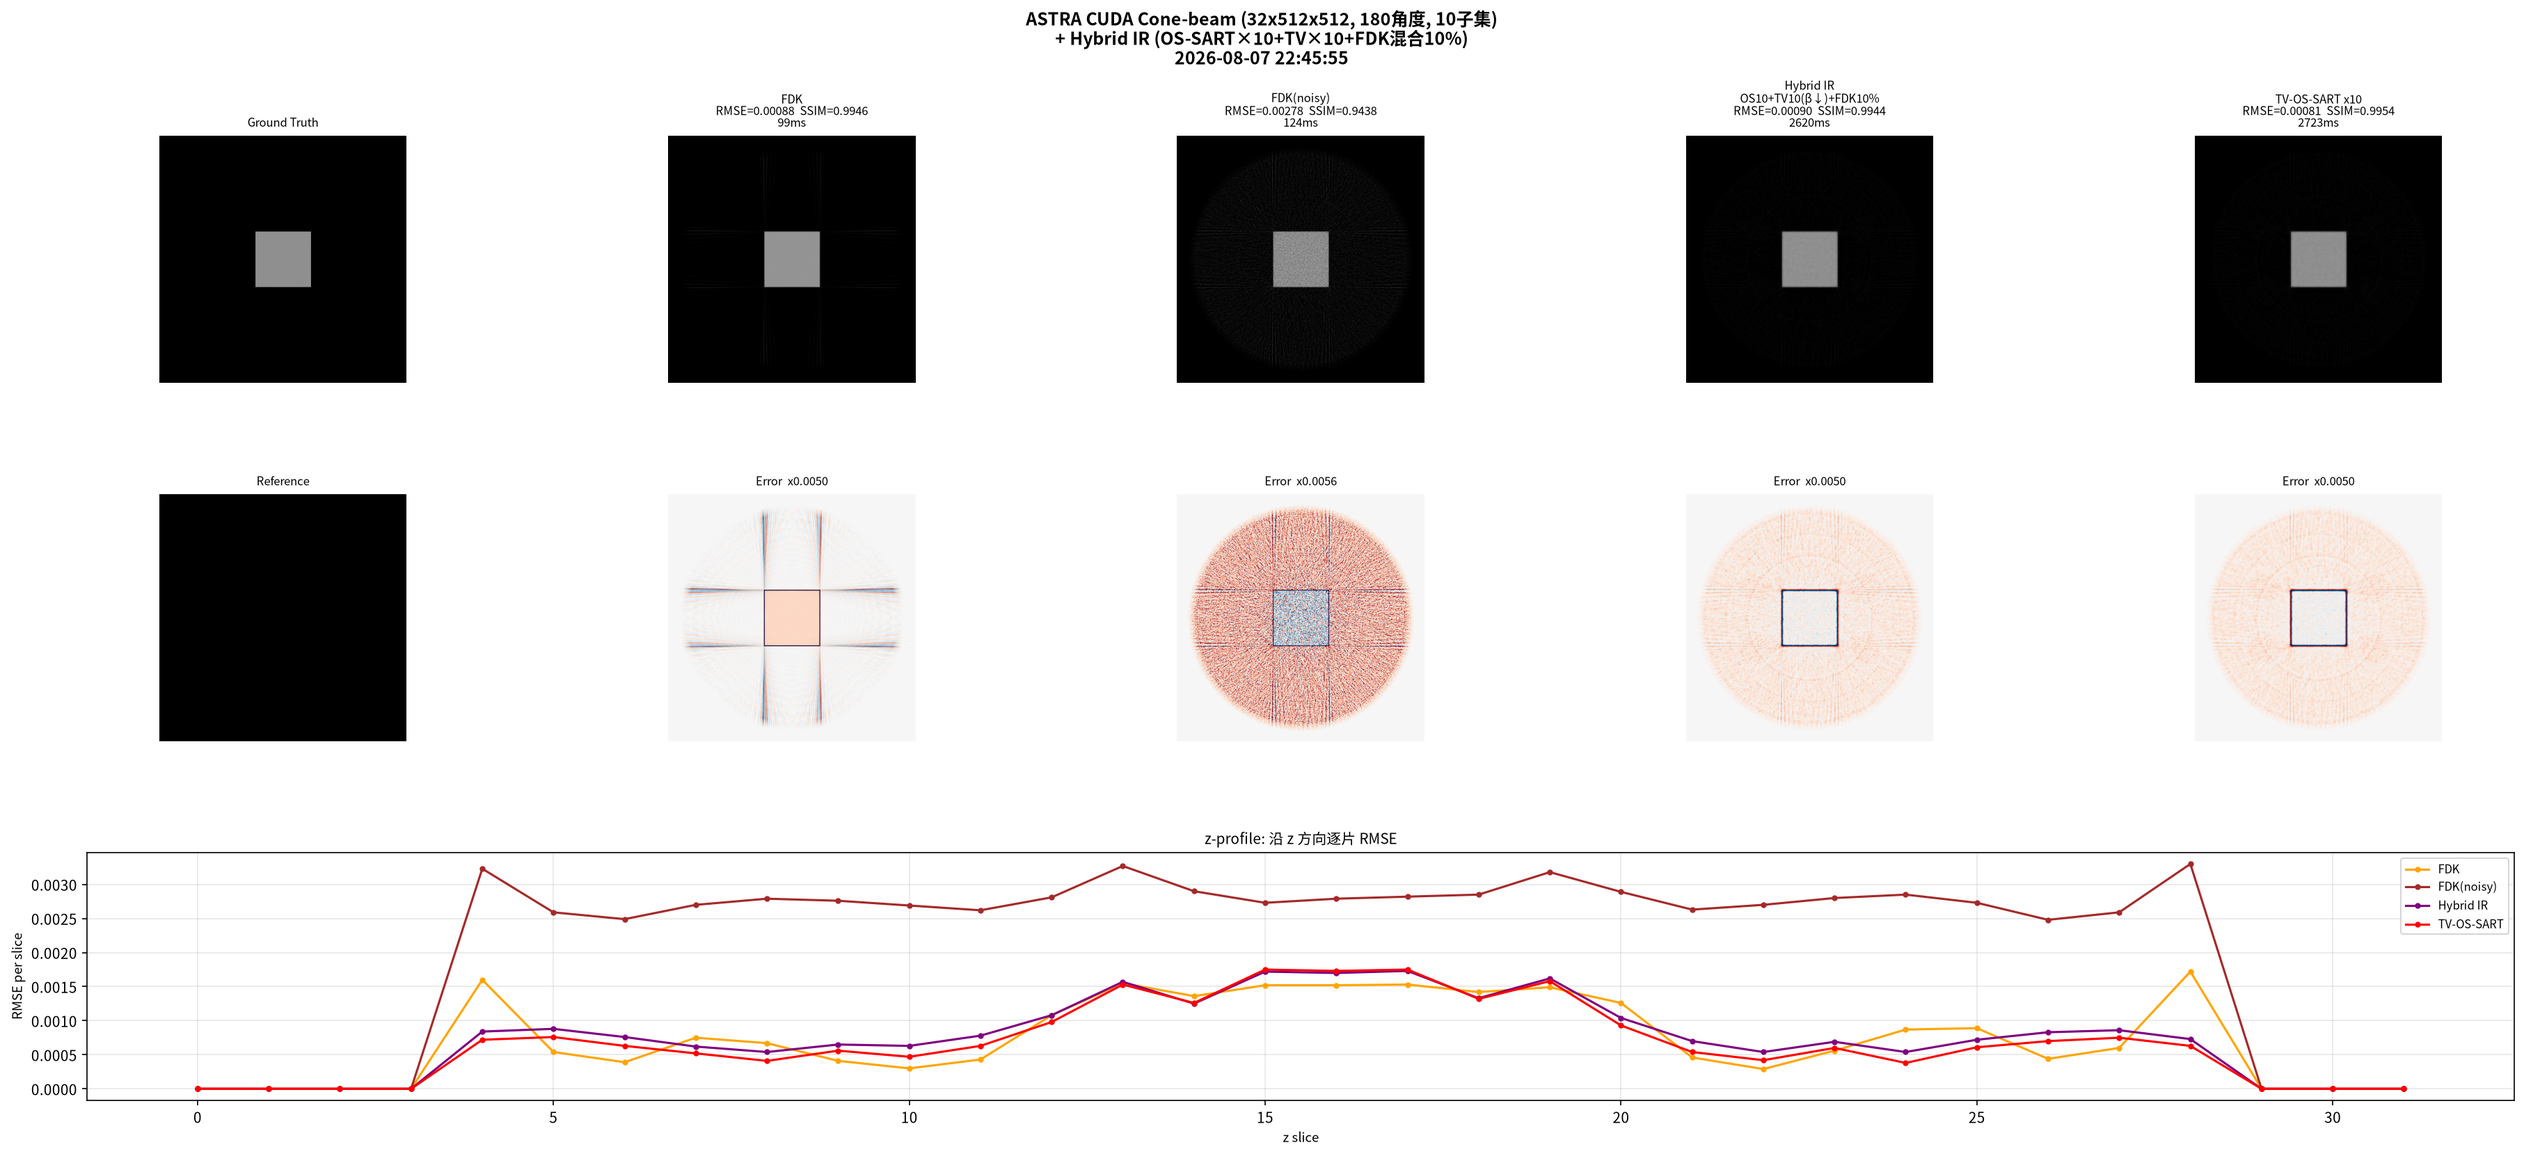
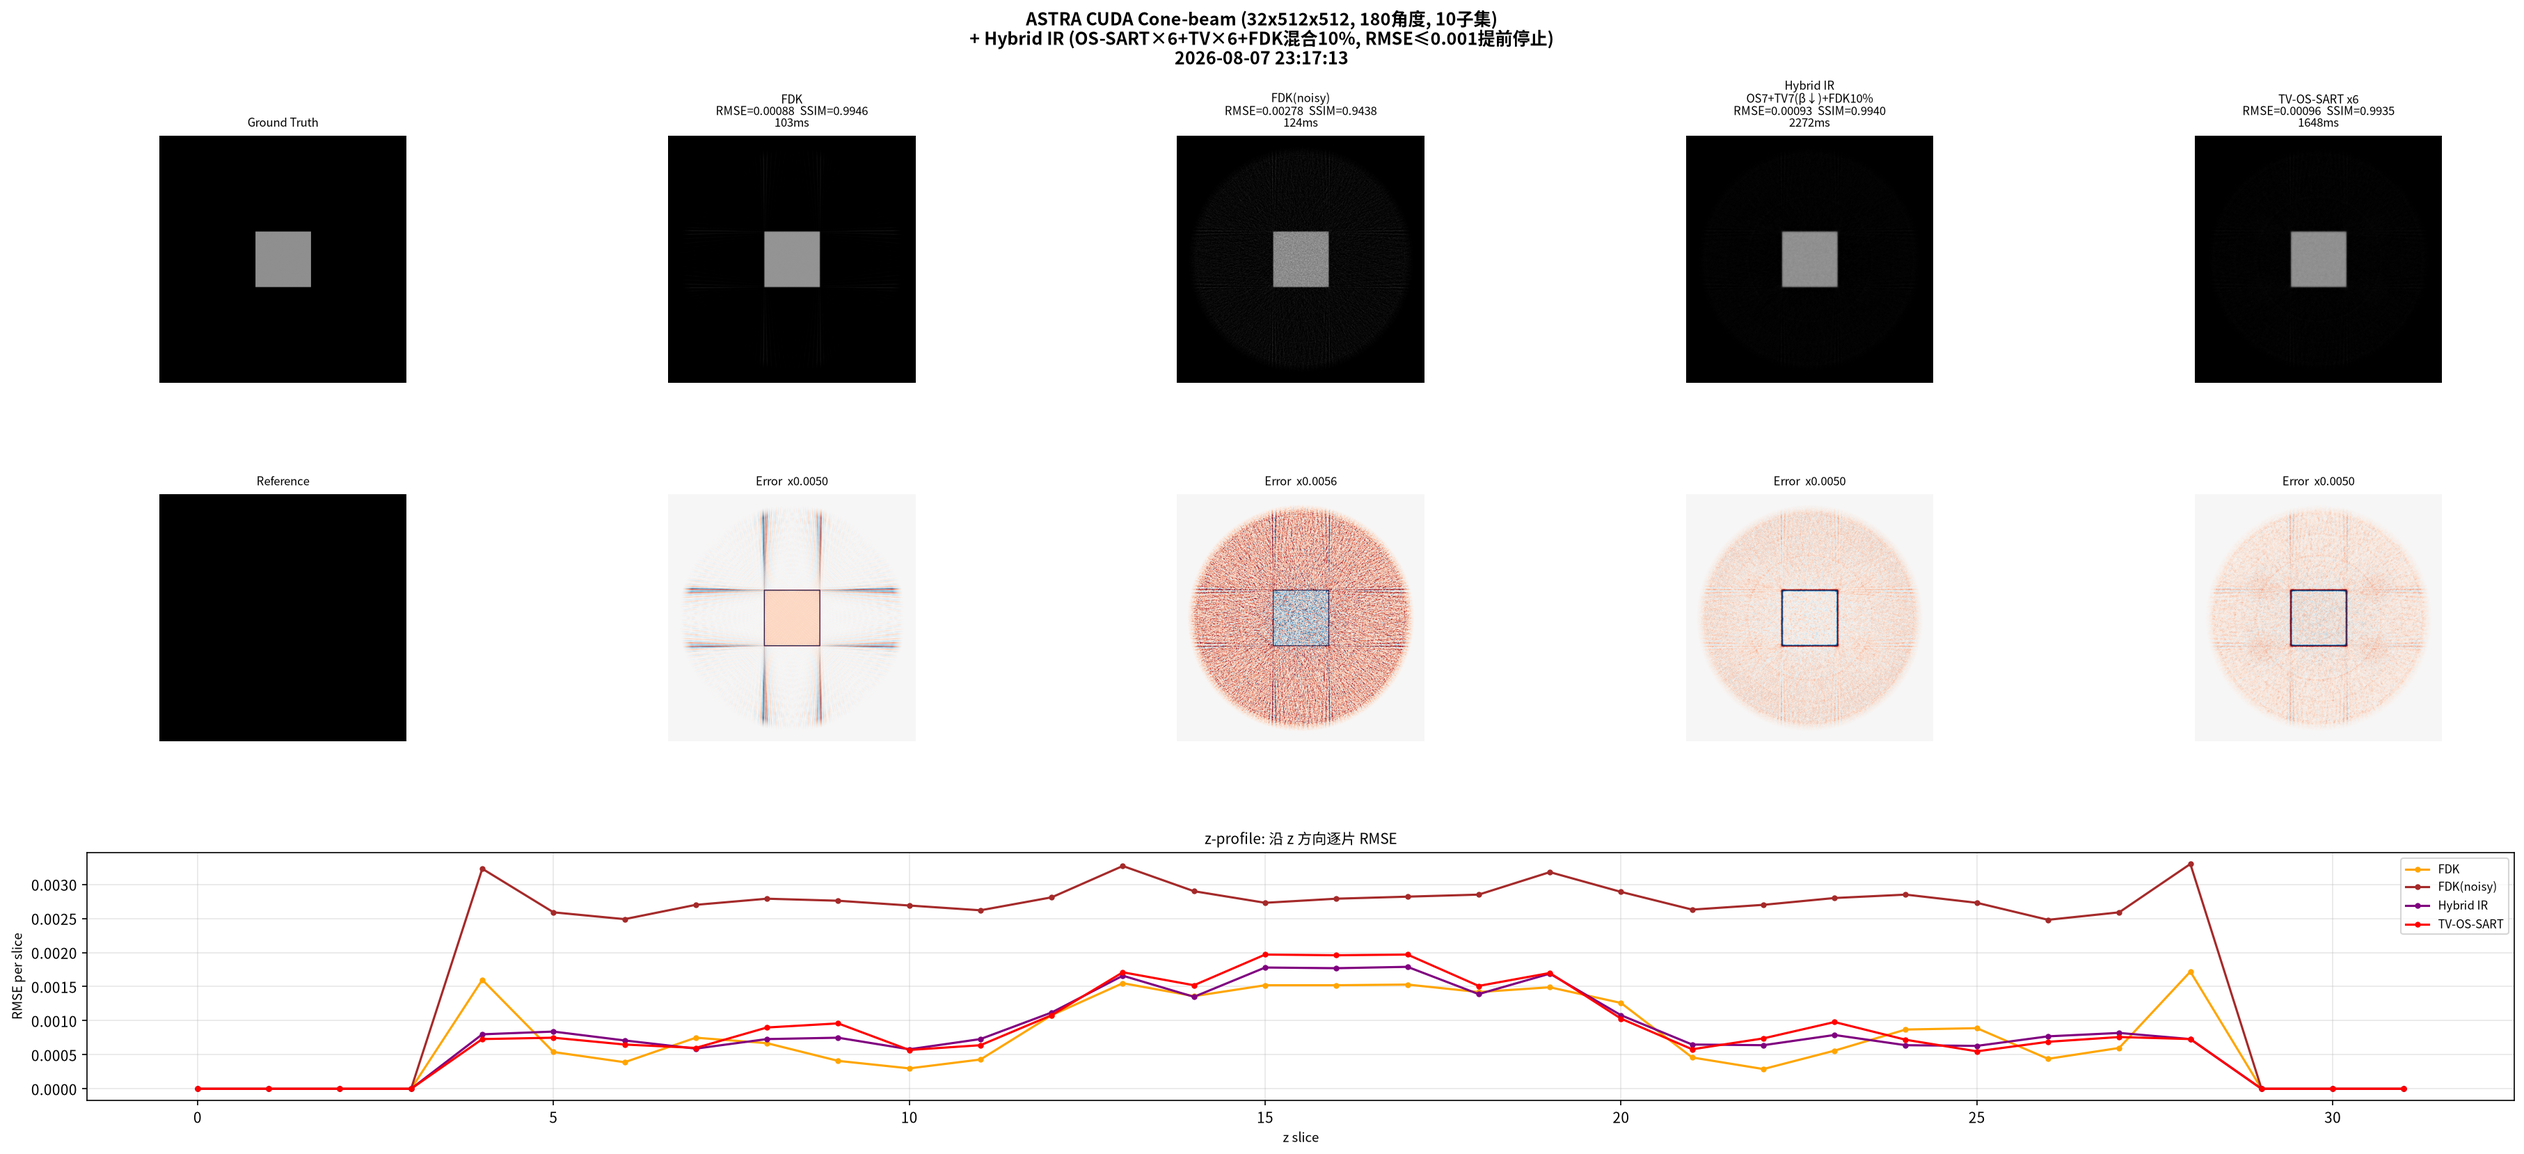
optimize #003, rmse check and stop iteration

diff --git a/src_astra_cpp/src/common.cpp b/src_astra_cpp/src/common.cpp
@@ -344,7 +344,8 @@ std::string json_result(const AlgorithmResult& r) {
 // ============================================================================
 // 主流水线
 // ============================================================================
-int run_pipeline(bool helical, const std::string& phantom_path, const std::string& outdir) {
+int run_pipeline(bool helical, const std::string& phantom_path, const std::string& outdir,
+                 int max_epochs, double target_rmse) {
     constexpr size_t slice = (size_t)N * N;
 
     printf("%s\n", kSep60);
@@ -468,9 +469,9 @@ int run_pipeline(bool helical, const std::string& phantom_path, const std::strin
     };
 
     // ============================
-    // B. TV-OS-SART
+    // B. TV-OS-SART (提前停止: RMSE ≤ target 即停, 默认 ≤0.001)
     // ============================
-    printf("%s\nB. TV-OS-SART\n%s\n", kSep55, kSep55);
+    printf("%s\nB. TV-OS-SART (RMSE≤%.3f 提前停止, 上限%d轮)\n%s\n", kSep55, target_rmse, max_epochs, kSep55);
     const float beta0 = 0.002f, decay = 0.8f, w_z = 1.5f;
     std::vector<float> rec_tv = rec_fdk_n;
     double t_tv_total = 0.0;
@@ -479,7 +480,7 @@ int run_pipeline(bool helical, const std::string& phantom_path, const std::strin
     std::vector<float> best_rec;
     double t_sirt = 0.0, t_tv = 0.0;  // 耗时构成统计
     g_tv_gpu_ok = true;               // 优先 GPU TV, 失败自动回退 CPU
-    for (int ni = 1; ni <= 10; ++ni) {
+    for (int ni = 1; ni <= max_epochs; ++ni) {
         Stopwatch sw_sirt;
         ossart_epoch(rec_tv);
         t_sirt += sw_sirt.ms();
@@ -492,6 +493,10 @@ int run_pipeline(bool helical, const std::string& phantom_path, const std::strin
         if (r < best_rmse) { best_rmse = r; best_ssim = s; best_rec = ls; best_t = t_tv_total; best_ni = ni; }
         printf("   TV-OS-SART x%3d (β=%.4f): RMSE=%.5f, SSIM=%.4f, 累计%.0fms\n",
                ni, (double)(beta0 * std::pow(decay, ni - 1)), r, s, t_tv_total);
+        if (target_rmse > 0.0 && r <= target_rmse) {
+            printf("   ✓ RMSE=%.5f ≤ %.3f, 提前停止于 x%d\n", r, target_rmse, ni);
+            break;
+        }
     }
     printf("   >> 最优: TV-OS-SART x%d: RMSE=%.5f\n", best_ni, best_rmse);
     double tv_improv = (1 - best_rmse / fdk_noisy_rmse) * 100;
@@ -500,24 +505,40 @@ int run_pipeline(bool helical, const std::string& phantom_path, const std::strin
     printf("   TV-OS-SART z-profile: mean=%.5f, max=%.5f\n", best_tv_zprof.mean, best_tv_zprof.max);
 
     // ============================
-    // C. Hybrid IR (OS10 + TV10(β↓) + FDK 混合 10%)
+    // C. Hybrid IR (OS + TV(β↓) + FDK 混合 10%, 提前停止: RMSE ≤ target)
     // ============================
-    printf("%s\nC. Hybrid IR (OS-SART×10 + TV×10(β递减) + FDK混合 10%%)\n%s\n", kSep55, kSep55);
+    printf("%s\nC. Hybrid IR (OS-SART×%d + TV×%d(β递减) + FDK混合 10%%, RMSE≤%.3f 提前停止)\n%s\n",
+           kSep55, max_epochs, max_epochs, target_rmse, kSep55);
     Stopwatch sw_h;
     std::vector<float> rec_h = rec_fdk_n;
-    for (int ni = 0; ni < 10; ++ni) {
+    int hyb_epochs = max_epochs;
+    for (int ni = 0; ni < max_epochs; ++ni) {
         Stopwatch sw_sirt2;
         ossart_epoch(rec_h);
         t_sirt += sw_sirt2.ms();
         Stopwatch sw_tv2;
         tv_denoise(rec_h, beta0 * std::pow(decay, ni), w_z);
         t_tv += sw_tv2.ms();
+        hyb_epochs = ni + 1;
+        if (target_rmse > 0.0) {
+            // 用混合副本评估 (最终结果口径), 不修改 rec_h
+            std::vector<float> blend(nvol);
+            for (size_t i = 0; i < nvol; ++i)
+                blend[i] = 0.9f * rec_h[i] + 0.1f * rec_fdk_n[i];
+            double r = calc_rmse(linear_scale(blend, vol_gt), vol_gt);
+            if (r <= target_rmse) {
+                printf("   ✓ Hybrid RMSE=%.5f ≤ %.3f, 提前停止于 x%d\n", r, target_rmse, hyb_epochs);
+                break;
+            }
+        }
     }
+    // 最终混合 + 标定 (算法与 Python 版一致)
     for (size_t i = 0; i < nvol; ++i)
         rec_h[i] = 0.9f * rec_h[i] + 0.1f * rec_fdk_n[i];
-    double t_hybrid = sw_h.ms();
     std::vector<float> rec_h_ls = linear_scale(rec_h, vol_gt);
-    double r_hybrid = calc_rmse(rec_h_ls, vol_gt), s_hybrid = calc_ssim(rec_h_ls, vol_gt);
+    double r_hybrid = calc_rmse(rec_h_ls, vol_gt);
+    double s_hybrid = calc_ssim(rec_h_ls, vol_gt);
+    double t_hybrid = sw_h.ms();
     ZProfile hybrid_zprof = calc_z_profile(rec_h_ls, vol_gt);
     printf("   Hybrid IR: RMSE=%.5f, SSIM=%.4f, %.0fms\n", r_hybrid, s_hybrid, t_hybrid);
     printf("   z-profile: mean=%.5f, max=%.5f\n", hybrid_zprof.mean, hybrid_zprof.max);
@@ -550,8 +571,9 @@ int run_pipeline(bool helical, const std::string& phantom_path, const std::strin
     printf("%-30s %8.0f ms  %10.5f  %8.4f %10.5f\n", tv_name.c_str(), best_t, best_rmse, best_ssim, best_tv_zprof.mean);
     printf("%-30s %8.0f ms  %10.5f  %8.4f %10.5f\n", "Hybrid IR", t_hybrid, r_hybrid, s_hybrid, hybrid_zprof.mean);
     printf("%s\n", kSep72);
-    printf("耗时构成: SIRT(200次子集迭代)=%.0fms, TV(20次)=%.0fms%s\n",
-           t_sirt, t_tv, g_tv_gpu_ok ? " (GPU)" : " (CPU)");
+    int n_sirt = (best_ni + hyb_epochs) * n_subsets;
+    printf("耗时构成: SIRT(%d次子集迭代)=%.0fms, TV(%d次)=%.0fms%s\n",
+           n_sirt, t_sirt, best_ni + hyb_epochs, t_tv, g_tv_gpu_ok ? " (GPU)" : " (CPU)");
 
     // 摘要 JSON (结构对齐 Python 版 summary.json)
     std::ostringstream js;
@@ -560,6 +582,9 @@ int run_pipeline(bool helical, const std::string& phantom_path, const std::strin
        << "  \"config\": {\"N\": " << N << ", \"nz\": " << nz << ", \"n_angles\": " << n_angles
        << ", \"n_subsets\": " << n_subsets << ", \"DSO\": 1000, \"iso_det\": 500";
     if (helical) js << ", \"pitch\": 16.0";
+    js << std::setprecision(3)
+       << ", \"target_rmse\": " << target_rmse
+       << ", \"epochs\": {\"tv_ossart\": " << best_ni << ", \"hybrid\": " << hyb_epochs << "}";
     js << "},\n  \"results\": {\n"
        << "    \"Pure FDK\": " << json_result({fdk_rmse, fdk_ssim, fdk_t}) << ",\n"
        << "    \"FDK(noisy)\": " << json_result({fdk_noisy_rmse, fdk_noisy_ssim, fdk_noisy_t}) << ",\n";

diff --git a/src_astra_cpp/tools/render_results.py b/src_astra_cpp/tools/render_results.py
@@ -63,6 +63,10 @@ def render(mode, outdir=None):
 
     tv_key = max((k for k in res if k.startswith("TV-OS-SART")), key=lambda s: int(s.split("x")[1]))
     tv_n = int(tv_key.split("x")[1])
+    cfg = summary.get("config", {})
+    ep = cfg.get("epochs", {})
+    n_tv = ep.get("tv_ossart", tv_n)
+    n_hyb = ep.get("hybrid", 10)
 
     # ---- 与 Python 版 titles_upper 相同的面板 (5 列) ----
     fig = plt.figure(figsize=(30, 12) if mode == "axial" else (35, 12))
@@ -71,7 +75,7 @@ def render(mode, outdir=None):
         ("Ground Truth", gt[mid] if gt is not None else np.zeros((N, N), dtype=np.float32), None, None),
         ("FDK", fdk[mid], res["Pure FDK"], None),
         ("FDK(noisy)", fdk_n[mid], res["FDK(noisy)"], None),
-        ("Hybrid IR\nOS10+TV10(β↓)+FDK10%", hyb[mid], res["Hybrid IR"], None),
+        (f"Hybrid IR\nOS{n_hyb}+TV{n_hyb}(β↓)+FDK10%", hyb[mid], res["Hybrid IR"], None),
         ("TV-OS-SART", tv[mid], res[tv_key], tv_n),
     ]
     for i, (title, img, r, ni) in enumerate(panels):
@@ -111,13 +115,14 @@ def render(mode, outdir=None):
     ax_z.set_title("z-profile: 沿 z 方向逐片 RMSE", fontsize=10)
     ax_z.grid(True, alpha=0.3)
 
-    # ---- suptitle (与 Python 版相同格式, 含时间戳) ----
+    # ---- suptitle (含实际迭代轮数 + 时间戳) ----
+    tr = cfg.get("target_rmse", 0.001)
     if mode == "axial":
         st = (f"ASTRA CUDA Cone-beam (32x512x512, {n_angles}角度, {n_subsets}子集)\n"
-              f"+ Hybrid IR (OS-SART×10+TV×10+FDK混合10%)\n{ts}")
+              f"+ Hybrid IR (OS-SART×{n_tv}+TV×{n_tv}+FDK混合10%, RMSE≤{tr:.3f}提前停止)\n{ts}")
     else:
         st = (f"ASTRA CUDA Helical Cone-beam (32x512x512, {n_angles}角度, pitch=16.0mm, {n_subsets}子集)\n"
-              f"+ Hybrid IR (OS-SART×10+TV×10+FDK混合10%)\n{ts}")
+              f"+ Hybrid IR (OS-SART×{n_tv}+TV×{n_tv}+FDK混合10%, RMSE≤{tr:.3f}提前停止)\n{ts}")
     plt.suptitle(st, fontsize=12, fontweight="bold", y=0.98)
 
     out_png = os.path.join(d, "astra_cone_hybrid.png")

diff --git a/src_astra_cpp/src/main_axial.cpp b/src_astra_cpp/src/main_axial.cpp
@@ -1,15 +1,20 @@
 // ASTRA 锥束轴向 (axial) 混合重建入口
-// 用法: astra_axial [phantom.raw] [outdir]
+// 用法: astra_axial [phantom.raw] [outdir] [max_epochs=10] [target_rmse=0.001]
 //   默认从仓库根目录运行: 输入 src_astra_cpp/data/vol_gt.raw, 输出 img_3d_axial/astra_cpp/
+//   target_rmse=0 表示跑满 max_epochs (不做提前停止)
 #include "common.h"
 
-#include <cstdio>
+#include <cstdlib>
 #include <string>
 
 int main(int argc, char** argv) {
     std::string phantom = "src_astra_cpp/data/vol_gt.raw";
     std::string outdir = "img_3d_axial/astra_cpp";
+    int max_epochs = 10;
+    double target_rmse = 0.001;
     if (argc > 1) phantom = argv[1];
     if (argc > 2) outdir = argv[2];
-    return run_pipeline(false, phantom, outdir);
+    if (argc > 3) max_epochs = std::atoi(argv[3]);
+    if (argc > 4) target_rmse = std::atof(argv[4]);
+    return run_pipeline(false, phantom, outdir, max_epochs, target_rmse);
 }

diff --git a/src_astra_cpp/src/main_helical.cpp b/src_astra_cpp/src/main_helical.cpp
@@ -1,14 +1,20 @@
 // ASTRA 锥束螺旋 (helical) 混合重建入口
-// 用法: astra_helical [phantom.raw] [outdir]
+// 用法: astra_helical [phantom.raw] [outdir] [max_epochs=10] [target_rmse=0.001]
 //   默认从仓库根目录运行: 输入 src_astra_cpp/data/vol_gt.raw, 输出 img_3d_helical/astra_cpp/
+//   target_rmse=0 表示跑满 max_epochs (不做提前停止)
 #include "common.h"
 
+#include <cstdlib>
 #include <string>
 
 int main(int argc, char** argv) {
     std::string phantom = "src_astra_cpp/data/vol_gt.raw";
     std::string outdir = "img_3d_helical/astra_cpp";
+    int max_epochs = 10;
+    double target_rmse = 0.001;
     if (argc > 1) phantom = argv[1];
     if (argc > 2) outdir = argv[2];
-    return run_pipeline(true, phantom, outdir);
+    if (argc > 3) max_epochs = std::atoi(argv[3]);
+    if (argc > 4) target_rmse = std::atof(argv[4]);
+    return run_pipeline(true, phantom, outdir, max_epochs, target_rmse);
 }

diff --git a/src_astra_cpp/src/common.h b/src_astra_cpp/src/common.h
@@ -22,6 +22,9 @@ struct ZProfile {
 // 运行完整的 ASTRA 锥束混合重建流水线 (FDK / TV-OS-SART / Hybrid IR)
 //   helical: true  = 螺旋轨迹 (pitch=16mm/圈), false = 轴向圆轨迹
 //   phantom_path: 输入体模 (float32, nz*N*N, [z][y][x] 布局)
-//   outdir:        输出目录 (JSON 摘要 / PNG 切片 / .raw 结果体)
+//   outdir:        输出目录 (JSON 摘要 / 结果图 / .raw 结果体)
+//   max_epochs:    迭代轮数上限 (默认 10)
+//   target_rmse:   RMSE 达标即提前停止 (默认 0.001; 设为 0 则跑满 max_epochs)
 // 返回 0 表示成功
-int run_pipeline(bool helical, const std::string& phantom_path, const std::string& outdir);
+int run_pipeline(bool helical, const std::string& phantom_path, const std::string& outdir,
+                 int max_epochs = 10, double target_rmse = 0.001);

diff --git a/src_astra_cpp/README.md b/src_astra_cpp/README.md
@@ -60,9 +60,11 @@ cmake --build build -j
 # 2. 生成与 Python 版完全一致的含噪声 sinogram (numpy 噪声, 轴向/螺旋各一份)
 .venv/bin/python src_astra_cpp/tools/make_sino_noisy.py both
 
-# 3. 重建 (会自动加载共享噪声文件; 找不到时回退到内置 mt19937 噪声)
+# 3. 重建 (默认 RMSE≤0.001 提前停止, 详见下)
 src_astra_cpp/build/astra_axial    src_astra_cpp/data/vol_gt.raw img_3d_axial/astra_cpp
 src_astra_cpp/build/astra_helical  src_astra_cpp/data/vol_gt.raw img_3d_helical/astra_cpp
+#    可选参数: [max_epochs=10] [target_rmse=0.001]
+#    例: 跑满 10 轮不做提前停止: ... img_3d_axial/astra_cpp 10 0
 
 # 4. 渲染对比图 (C++ 跑完会自动调用, 无需手动; 也可手动执行)
 .venv/bin/python src_astra_cpp/tools/render_results.py axial helical
@@ -93,15 +95,23 @@ src_astra_cpp/build/astra_helical  src_astra_cpp/data/vol_gt.raw img_3d_helical/
 
 (数值为 RMSE / SSIM, 见各目录下的 `*_summary.json`。)
 
-## 耗时 (GTX 1660, 与 Python 基线 summary.json 对比)
+## 迭代轮数与耗时 (GTX 1660, RMSE≤0.001 提前停止)
 
-| 阶段 | Python | C++ (CPU TV) | C++ (GPU TV) | C++ (GPU 常驻 SART) |
-|---|---|---|---|---|
-| Pure FDK | ~301 ms | ~101 ms | ~100 ms | **~100 ms** (3×) |
-| TV-OS-SART x10 | ~5006 ms | ~4855 ms | ~4030 ms | **~2720 ms** |
-| Hybrid IR | ~4762 ms | ~4527 ms | ~3500 ms | **~2620 ms** |
+默认在 **RMSE ≤ 0.001** 时提前停止 (上限 10 轮, 可用 `target_rmse`/`max_epochs` 调):
 
-## 为什么能再快 30% (GPU 常驻 OS-SART, 方案 A)
+| 阶段 | 轮数 | RMSE | 耗时 | vs 旧 10 轮 | vs Python 10 轮 |
+|---|---|---|---|---|---|
+| 轴向 TV-OS-SART | **x6** | 0.00096 | **~1.65 s** | 2723→1648 ms | 5006→1648 ms (3×) |
+| 轴向 Hybrid IR | **x7** | 0.00093 | **~2.27 s** | 2620→2272 ms | 4762→2272 ms (2.1×) |
+| 螺旋 TV-OS-SART | **x6** | 0.00098 | **~1.70 s** | — | — |
+| 螺旋 Hybrid IR | **x7** | 0.00094 | **~2.36 s** | — | — |
+
+SIRT 迭代次数 200 → **130** (-35%), TV 调用 20 → 13。
+
+> 注: `Pure FDK` / `FDK(noisy)` 的 RMSE (轴向 0.00088/0.00278, 螺旋 0.00129/0.00295)
+> 是单次反投影的固有属性, 与迭代次数无关, 不参与提前停止判定。
+
+## 耗时分解 (GPU 常驻 OS-SART, 方案 A)
 
 旧实现每个子集迭代都经历 `CPU memcpy → run(1)(上传→内核→下载) → CPU memcpy`
 (每次 ~40ms, 其中 ~12ms 是传输)。新实现 `src/sart_gpu.cpp` 用 libastra 导出的

diff --git a/doc/astra_cpp.md b/doc/astra_cpp.md
@@ -8,6 +8,27 @@ ASTRA 的 **Python 接口传探测器中心**,而 C++ 直接构造 `CConeVecProj
 
 ASTRA 的 3D FDK **只有 `CCudaFDKAlgorithm3D`** 一个实现,类型注册为 `"FDK_CUDA"`——头文件目录里**没有 CPU 版 3D FDK**(见 `third_party/astra/include/astra/`,仅 `CudaFDKAlgorithm3D.h`)
 - 我们的 C++ 代码直接实例化该类,`run()` → `CompositeGeometryManager::doFDK` → `astraCUDA3d::FDK`(`fdk.cu` 的 CUDA 内核)
+## optimize #003
+
+RMSE ≤ 0.001 提前停止已实现并验证。
+
+## 结果(默认参数:目标 RMSE 0.001,上限 10 轮)
+
+| 阶段 | 轮数 | RMSE | 耗时 | 对比旧 10 轮 |
+|---|---|---|---|---|
+| 轴向 TV-OS-SART | **x6** | 0.00096 ✓ | **1648ms** | 2723→1648 (1.65×) |
+| 轴向 Hybrid IR | **x7** | 0.00093 ✓ | **2272ms** | 2620→2272 (1.15×) |
+| 螺旋 TV-OS-SART | **x6** | 0.00098 ✓ | **1703ms** | — |
+| 螺旋 Hybrid IR | **x7** | 0.00094 ✓ | **2358ms** | — |
+
+- **SIRT 迭代 200 → 130 次(-35%)**,TV 调用 20 → 13 次
+- 完整流水线 wall:9.57s → **7.92s**;vs Python 基线:TV-OS-SART **3.0×**、Hybrid **2.1×**
+- 每轮迭代后评估 RMSE(线性标定后),达标立即停;Hybrid 用混合副本评估(不改算法,最终混合只做一次,与 Python 版一致)
+
+
+```sh
+astra_axial [phantom.raw] [outdir] [max_epochs=10] [target_rmse=0.001]
+
 
 ## optimize # 002
 **新文件**

diff --git a/README.md b/README.md
@@ -25,7 +25,7 @@ fbp vs ir
 sirt os-sart
 ### astra_hybrid.py
 <!--![astra_hybrid](img_out/astra_hybrid.png)-->
-### tigre_hybrid.py
+<!--### tigre_hybrid.py-->
 <!--![tigre_hybrid](img_out/tigre_hybrid.png)-->
 
 
@@ -35,17 +35,17 @@ tv-os-sart+fdk
 ![fdk_compare](img_3d_axial/fdk_compare.png)
 ### astra_cone_hybrid.py
 ![astra_cone_hybrid](img_3d_axial/astra_cone_hybrid.png)
-### tigre_cone_hybrid.py
+<!--### tigre_cone_hybrid.py
 tigre_hybrid
-![tigre_cone_hybrid](img_3d_axial/tigre_cone_hybrid.png)
+![tigre_cone_hybrid](img_3d_axial/tigre_cone_hybrid.png)-->
 
 ## helical cone hybrid
 tv-os-sart+fdk
 ### astra_cone_hybrid.py
 ![astra_cone_hybrid](img_3d_helical/astra_cone_hybrid.png)
-### tigre_cone_hybrid.py
+<!--### tigre_cone_hybrid.py
 tigre_hybrid
-![tigre_cone_hybrid](img_3d_helical/tigre_cone_hybrid.png)
+![tigre_cone_hybrid](img_3d_helical/tigre_cone_hybrid.png)-->
 
 ## result
 [optimize #010](doc/optimize.md)
